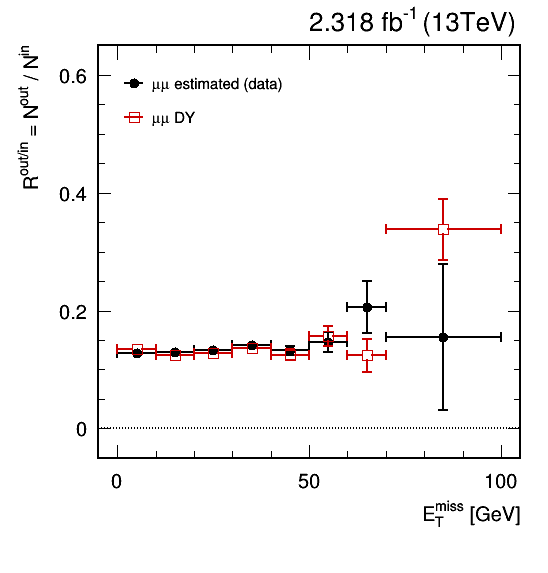
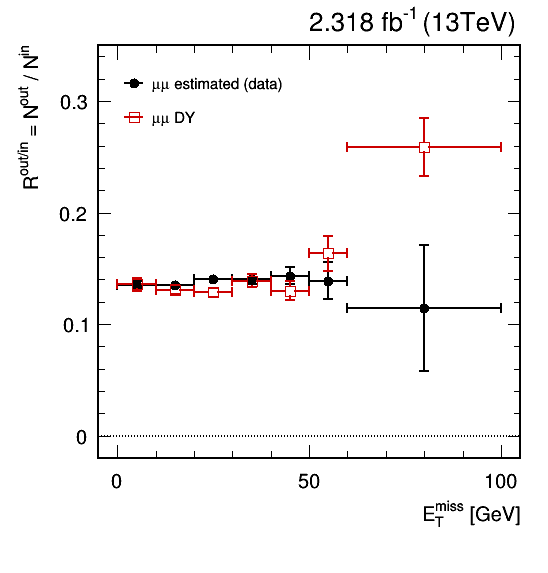
Minor changes

diff --git a/datadriven/getDYScale.C b/datadriven/getDYScale.C
@@ -25,10 +25,10 @@ const TString lchannel[nchannel] = {
 const float   zmin =  76;  // [GeV]
 const float   zmax = 106;  // [GeV]
 
-const int     nmetcut = 9;
+const int     nmetcut = 8;
 
-const float   metcut [nmetcut] = {-1, 10, 20, 30, 40, 50, 60, 70,  -1};  // [GeV]
-const float   metdraw[nmetcut] = { 0, 10, 20, 30, 40, 50, 60, 70, 100};  // [GeV]
+const float   metcut [nmetcut] = {-1, 10, 20, 30, 40, 50, 60,  -1};  // [GeV]
+const float   metdraw[nmetcut] = { 0, 10, 20, 30, 40, 50, 60, 100};  // [GeV]
 
 const bool    includeVZ    = true;
 const bool    printResults = true;
@@ -258,8 +258,8 @@ void getDYScale(TString analysis = "Control",
       mgraph[k]->GetXaxis()->SetTitle("E_{T}^{miss} [GeV]");
       mgraph[k]->GetYaxis()->SetTitle("R^{out/in} = N^{out} / N^{in}");
 
-      mgraph[k]->SetMinimum(-0.05);
-      mgraph[k]->SetMaximum(+0.65);
+      mgraph[k]->SetMinimum(-0.02);
+      mgraph[k]->SetMaximum(+0.35);
 
       DrawLegend(0.22, 0.83, (TObject*)graph_R_data[k], " " + lchannel[k] + " estimated (data)");
       DrawLegend(0.22, 0.77, (TObject*)graph_R_dy  [k], " " + lchannel[k] + " DY");
